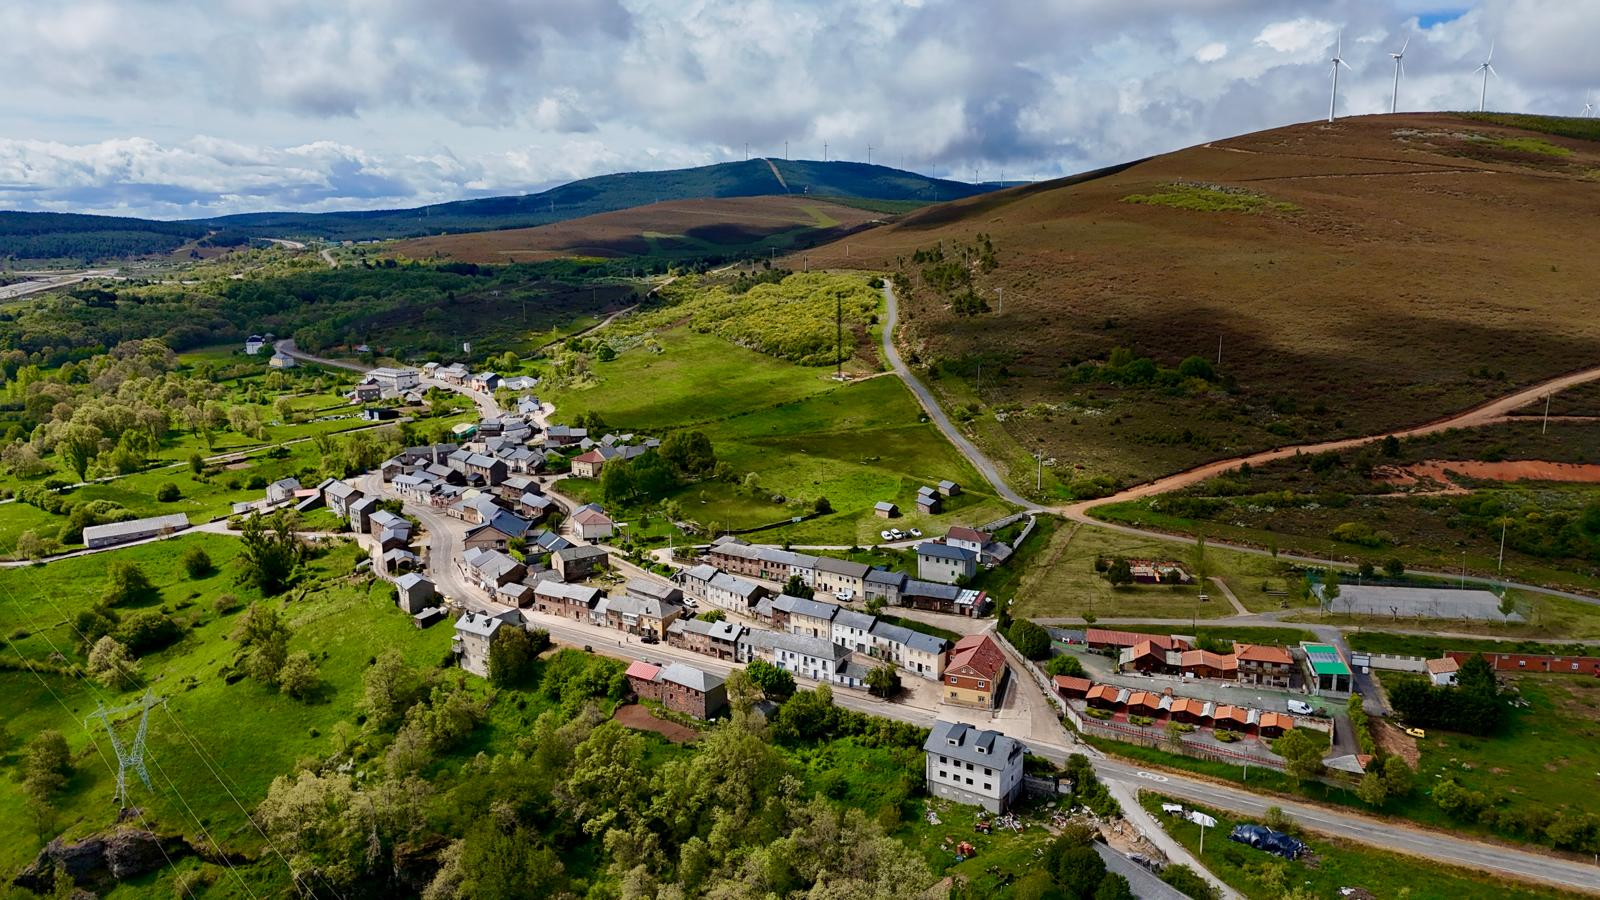
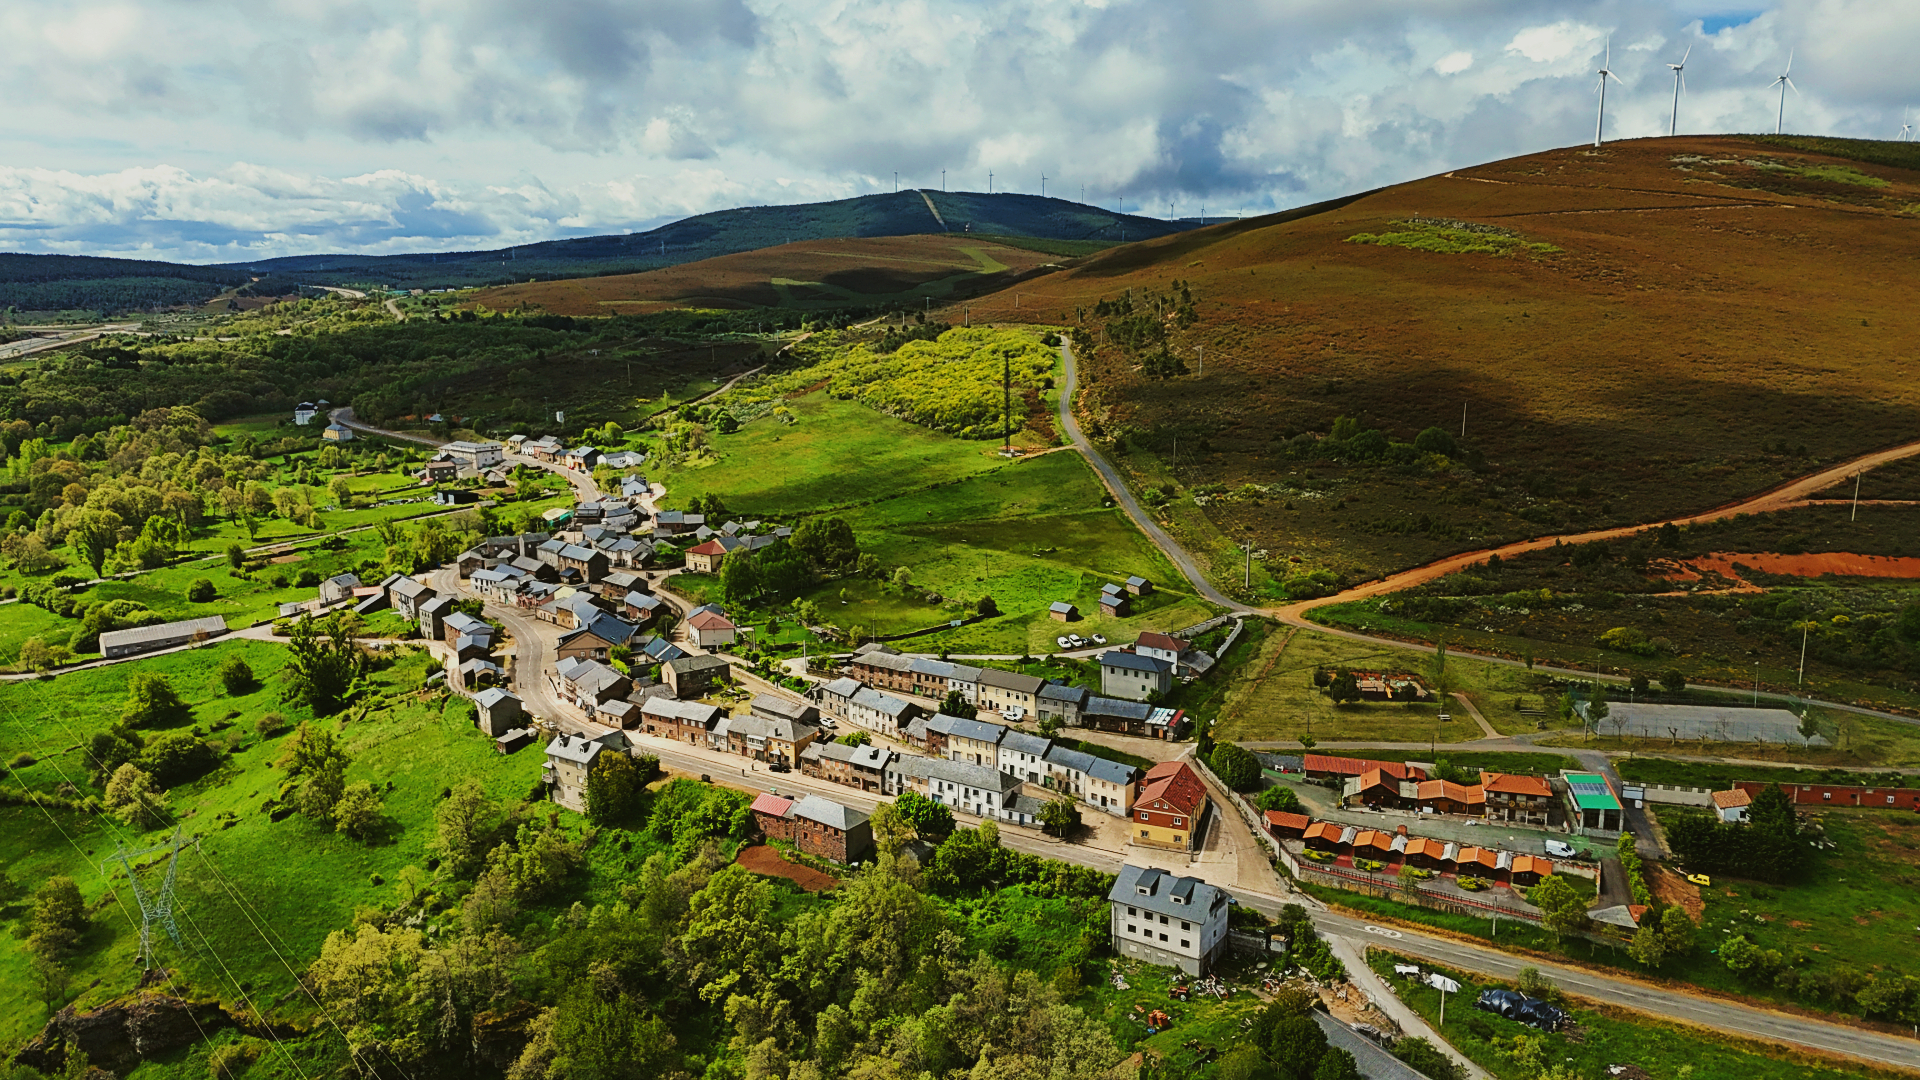
Hero con estilos

diff --git a/public/assets/css/home.css b/public/assets/css/home.css
@@ -3,7 +3,7 @@
 ═══════════════════════════════════════════════════════════════ */
 .hero {
     position: relative;
-    padding-top: 64px;
+    padding-top: 30px;
     min-height: 600px;
 }
 
@@ -18,7 +18,7 @@
     width: 100%;
     height: 100%;
     object-fit: cover;
-    object-position: top;
+    object-position: center;
 }
 
 .hero-back::after {
@@ -32,7 +32,7 @@
     position: relative;
     z-index: 1;
     text-align: center;
-    padding-top: 100px;
+    padding-top: 60px;
     padding-bottom: 80px;
 }
 
@@ -45,13 +45,19 @@
     margin-bottom: 20px;
 }
 .hero-title em { font-style: italic; color: var(--gold-light); }
+.hero-subtitle em {
+    font-style: var(--font-display); 
+    color: var(--gold-light);
+    
+}
 
 .hero-subtitle {
     max-width: 460px;
     margin: 0 auto 36px;
-    color: rgba(255,255,255,0.7);
-    font-size: 0.95rem;
+    color: var(--white);
+    font-size: 1.3rem;
     line-height: 1.7;
+    font-family: var(--font-display);
 }
 
 .hero-actions {
@@ -65,15 +71,17 @@
 .services-bar {
     position: relative;
     z-index: 10;
-    margin-top: -40px;
-    margin-bottom: -40px;
-    padding: 0 24px;
+    margin-bottom: -50px;
+    
 }
 
 .services-grid {
     display: grid;
     grid-template-columns: repeat(4, 1fr);
-    gap: 12px;
+    gap: 15px;
+    max-width: var(--max-w);   /* ← mismo ancho máximo que el resto */
+    margin: 0 auto;
+    padding: 10 12px;
 }
 
 .service-card {
@@ -82,14 +90,14 @@
     align-items: center;
     justify-content: center;
     gap: 8px;
-    padding: 16px 12px;
-    background: var(--gradient);
+    padding: 20px 5px;
     border-radius: 14px;
-    box-shadow: 0 8px 24px rgba(0,0,0,0.3);
+    background: linear-gradient(135deg, rgba(30,30,40,0.97) 0%, rgba(50,50,70,0.97) 100%);
+    box-shadow: 0 8px 24px rgba(0,0,0,0.6);
     transition: opacity var(--transition), transform var(--transition);
     cursor: pointer;
 }
-.service-card:hover { opacity: 0.85; transform: translateY(-2px); }
+.service-card:hover { background: linear-gradient(90deg, var(--gold-light), var(--gold-dark)); }
 
 .service-icon {
     display: flex;
@@ -101,7 +109,7 @@
 .service-icon svg { width: 28px; height: 28px; stroke: var(--white); }
 
 .service-label {
-    font-size: 0.7rem;
+    font-size: 1rem;
     font-weight: 500;
     letter-spacing: 0.12em;
     text-transform: uppercase;
@@ -113,8 +121,10 @@
    VÍDEOS
 ═══════════════════════════════════════════════════════════════ */
 .section-videos {
+    position: relative;
+    z-index: 1;
     background: var(--black);
-    padding: 80px 0 70px;
+    padding: 100px 0 70px;
 }
 
 .video-grid {
@@ -165,7 +175,7 @@
 ═══════════════════════════════════════════════════════════════ */
 .section-gallery {
     background: var(--gray-light);
-    padding: 80px 0 60px;
+    padding: 35px 0 70px;
 }
 
 .photo-grid {
@@ -212,7 +222,7 @@
 ═══════════════════════════════════════════════════════════════ */
 .section-contact {
     background: var(--white);
-    padding: 80px 0;
+    padding: 60px 0;
 }
 
 .contact-inner {

diff --git a/public/assets/css/base.css b/public/assets/css/base.css
@@ -11,6 +11,7 @@
     --gray-mid:    #888;
     --gray-light:  #F0F0F5;
     --white:       #FFFFFF;
+    --brown:        #623B1C;
     --border:      rgba(108,108,154,0.3);
 
     --font-display: 'Cormorant Garamond', Georgia, serif;
@@ -19,7 +20,7 @@
     --radius:    12px;
     --radius-sm:  6px;
     --transition: 0.25s ease;
-    --max-w: 1100px;
+    --max-w: 1280px;
     --gradient: linear-gradient(135deg, rgba(30,30,40,0.85) 0%, rgba(50,50,70,0.85) 100%);
 }
 
@@ -60,14 +61,12 @@ img, video { display: block; max-width: 100%; }
 }
 
 .btn--outline {
-    background: transparent;
-    border: 1.5px solid rgba(255,255,255,0.5);
+    background: var(--gradient);
+    /*border: 1.5px solid rgba(255,255,255,0.5);*/
     color: var(--white);
 }
 .btn--outline:hover {
-    background: var(--white);
-    color: var(--black);
-    border-color: var(--white);
+    background: linear-gradient(90deg, var(--gold-light), var(--gold-dark));
 }
 
 .btn--dark {

diff --git a/public/assets/css/layout.css b/public/assets/css/layout.css
@@ -39,18 +39,22 @@ header > div > svg {
 nav {
     display: flex;
     align-items: center;
-    gap: 28px;
+    gap: 20px;
     margin-left: auto;
 }
 
 nav a {
     color: rgba(255,255,255,0.75);
-    font-size: 0.875rem;
+    font-size: 1rem;
     font-weight: 400;
     letter-spacing: 0.02em;
     transition: color var(--transition);
+    padding: 8px 12px;
+    border-radius: var(--radius-sm); 
 }
-nav a:hover { color: var(--white); }
+nav a:hover {  
+    background: linear-gradient(90deg, var(--gold-light), var(--gold-dark));
+}
 
 nav a:last-child {
     color: var(--gold-light);

diff --git a/public/partials/header.php b/public/partials/header.php
@@ -25,3 +25,12 @@
         </button>
     </div>
 </header>
+
+<script>
+    const menuBtn = document.querySelector('.menuPhone');
+    const nav = document.querySelector('nav');
+
+    menuBtn.addEventListener('click', () => {
+        nav.classList.toggle('nav--open');
+    });
+</script>

diff --git a/public/sections/hero.php b/public/sections/hero.php
@@ -8,8 +8,8 @@
             Eleva tu contenido<br>al <em>siguiente nivel</em>
         </h1>
         <p class="hero-subtitle">
-            Transformamos ideas en imágenes que vuelan alto, capturando cada
-            detalle desde ángulos que inspiran y sorprenden.
+            Transformamos ideas en imágenes que vuelan alto, <em>capturando cada
+            detalle desde ángulos<br>que inspiran y sorprenden.</em>
         </p>
         <div class="hero-actions">
             <a href="#galeria" class="btn btn--outline">